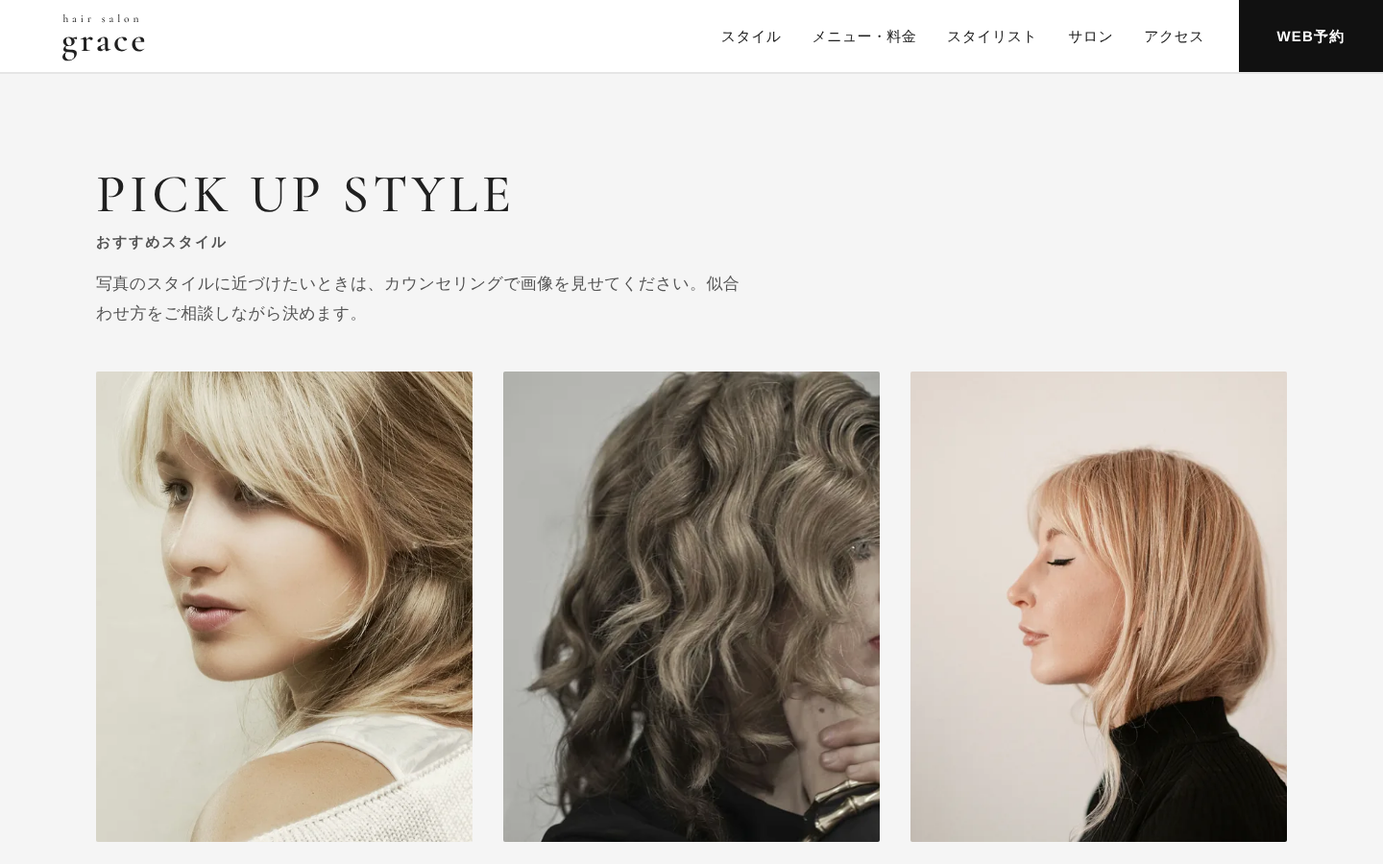
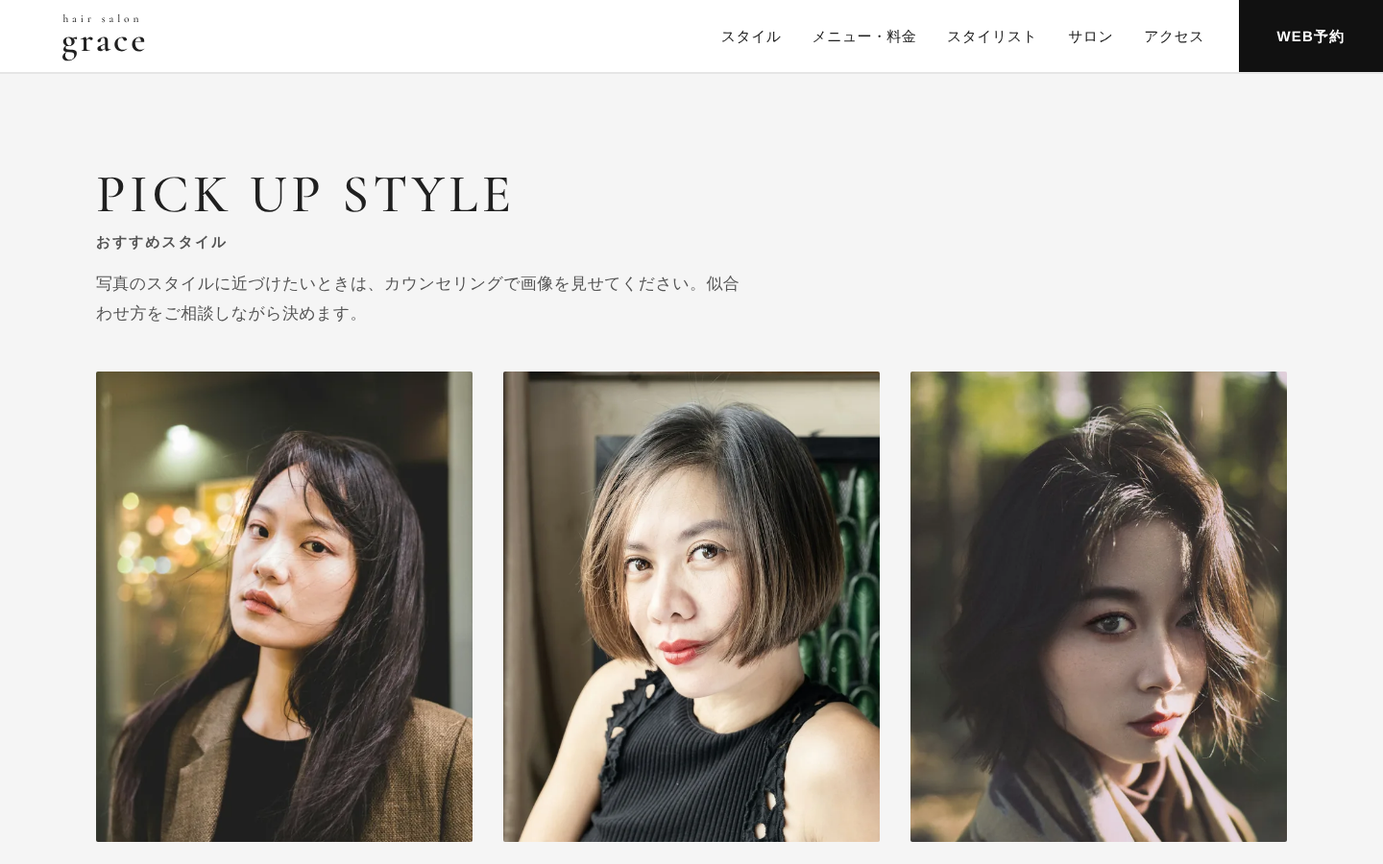
モデル写真を東アジア系モデルに差し替え、クレジット・OGP画像を更新
- ヒーロー・HAIR CATALOG・PICK UP STYLE・スタイル一覧を東アジア系モデルの Unsplash 写真（v4）に差し替え
- 使わなくなった欧米系モデルの写真（v3・v2の一部）を削除
- CREDITS.md に v4 の出典・使用箇所・日本との関連の確認結果と、検討して使わなかった国内素材サイトの理由を記載
- OGP画像と販促用スクリーンショットを作り直し

Claude-Session: https://claude.ai/code/session_01U6BrpBVGjCZbtm2Y6rXKjn

diff --git a/index.html b/index.html
@@ -6,8 +6,8 @@
     <meta name="description" content="美容室ホームページの制作見本です（架空店舗 hair salon grace）。モデル写真とヘアカタログで髪型・髪色の魅力を伝え、料金シミュレーター、スタイリスト指名からの予約、店側の予約管理画面まで体験できます。" />
     <meta property="og:title" content="【制作見本】hair salon grace｜美容室ホームページの見本" />
     <meta property="og:description" content="モデル写真とヘアカタログが主役の、白を基調にした美容室ホームページの制作見本（架空店舗）。料金シミュレーター・指名予約・予約管理まで体験できます。" />
-    <link rel="preload" as="image" href="/images/v3/hero-curly-gray.webp" imagesrcset="/images/v3/hero-curly-gray-sm.webp 800w, /images/v3/hero-curly-gray.webp 2000w" imagesizes="100vw" media="(min-width: 960px)" fetchpriority="high" />
-    <link rel="preload" as="image" href="/images/v3/hero-sp-black-long.webp" imagesrcset="/images/v3/hero-sp-black-long-sm.webp 533w, /images/v3/hero-sp-black-long.webp 1333w" imagesizes="100vw" media="(max-width: 959px)" fetchpriority="high" />
+    <link rel="preload" as="image" href="/images/v4/hero-pc-short-bob-side-part.webp" imagesrcset="/images/v4/hero-pc-short-bob-side-part-sm.webp 800w, /images/v4/hero-pc-short-bob-side-part.webp 2000w" imagesizes="100vw" media="(min-width: 960px)" fetchpriority="high" />
+    <link rel="preload" as="image" href="/images/v4/hero-sp-bob-blunt-fringe.webp" imagesrcset="/images/v4/hero-sp-bob-blunt-fringe-sm.webp 533w, /images/v4/hero-sp-bob-blunt-fringe.webp 1333w" imagesizes="100vw" media="(max-width: 959px)" fetchpriority="high" />
   </head>
   <body class="page-home">
     <a class="skip-link" href="#main">本文へ移動</a>
@@ -18,8 +18,8 @@
       <!-- 1. ヒーロー：画面いっぱいのモデル写真にブランド名を重ねる -->
       <section class="hero" aria-label="hair salon grace" data-hero>
         <picture class="hero-photo">
-          <source media="(max-width: 959px)" srcset="/images/v3/hero-sp-black-long-sm.webp 533w, /images/v3/hero-sp-black-long.webp 1333w" sizes="100vw" width="1333" height="2000" />
-          <img src="/images/v3/hero-curly-gray.webp" srcset="/images/v3/hero-curly-gray-sm.webp 800w, /images/v3/hero-curly-gray.webp 2000w" sizes="100vw" width="2000" height="1335" alt="グレーの背景の前で、ブラウンのカーリーロングヘアを片側に流した女性（スタイルイメージ）" fetchpriority="high" />
+          <source media="(max-width: 959px)" srcset="/images/v4/hero-sp-bob-blunt-fringe-sm.webp 533w, /images/v4/hero-sp-bob-blunt-fringe.webp 1333w" sizes="100vw" width="1333" height="2000" />
+          <img src="/images/v4/hero-pc-short-bob-side-part.webp" srcset="/images/v4/hero-pc-short-bob-side-part-sm.webp 800w, /images/v4/hero-pc-short-bob-side-part.webp 2000w" sizes="100vw" width="2000" height="1138" alt="黒髪のショートボブの女性の横顔寄りのポートレート（スタイルイメージ）" fetchpriority="high" />
         </picture>
         <div class="hero-brand">
           <p class="hero-logo"><span class="sub">hair salon</span> <span class="main">grace</span></p>
@@ -46,32 +46,32 @@
           </div>
           <ul class="catalog-grid">
             <li>
-              <a class="cat-tile" href="#style-list" data-cat-link="color" aria-label="ヘアカラーのスタイル一覧を見る">
-                <img src="/images/v3/cat-color-balayage-waves-sm.webp" srcset="/images/v3/cat-color-balayage-waves-sm.webp 533w, /images/v3/cat-color-balayage-waves.webp 933w" sizes="(min-width: 900px) 36vw, 100vw" width="933" height="1400" alt="ブラウンから明るいベージュへのグラデーションカラーのウェーブロングの女性" style="object-position:50% 35%" loading="lazy" decoding="async" />
-                <span class="cat-label" aria-hidden="true"><span class="en">COLOR</span><span class="ja">ヘアカラー</span></span>
-              </a>
-            </li>
-            <li>
               <a class="cat-tile" href="#style-list" data-cat-link="long" aria-label="ロングのスタイル一覧を見る">
-                <img src="/images/v3/cat-long-straight-brown-sm.webp" srcset="/images/v3/cat-long-straight-brown-sm.webp 600w, /images/v3/cat-long-straight-brown.webp 1050w" sizes="(min-width: 900px) 26vw, 50vw" width="1050" height="1400" alt="明るい背景の前で、ブラウンのストレートロングヘアの女性が正面を向いている" style="object-position:50% 30%" loading="lazy" decoding="async" />
+                <img src="/images/v4/cat-long-dark-waves-sm.webp" srcset="/images/v4/cat-long-dark-waves-sm.webp 528w, /images/v4/cat-long-dark-waves.webp 923w" sizes="(min-width: 900px) 36vw, 100vw" width="923" height="1400" alt="ウェーブのかかった黒髪ロングの女性の横顔" style="object-position:45% 30%" loading="lazy" decoding="async" />
                 <span class="cat-label" aria-hidden="true"><span class="en">LONG</span><span class="ja">ロング</span></span>
               </a>
             </li>
             <li>
+              <a class="cat-tile" href="#style-list" data-cat-link="color" aria-label="ヘアカラーのスタイル一覧を見る">
+                <img src="/images/v4/cat-color-copper-brown-waves-sm.webp" srcset="/images/v4/cat-color-copper-brown-waves-sm.webp 600w, /images/v4/cat-color-copper-brown-waves.webp 1049w" sizes="(min-width: 900px) 26vw, 50vw" width="1049" height="1400" alt="明るいブラウンのウェーブロングの女性" style="object-position:50% 30%" loading="lazy" decoding="async" />
+                <span class="cat-label" aria-hidden="true"><span class="en">COLOR</span><span class="ja">ヘアカラー</span></span>
+              </a>
+            </li>
+            <li>
               <a class="cat-tile" href="#style-list" data-cat-link="bob_medium" aria-label="ボブ・ミディアムのスタイル一覧を見る">
-                <img src="/images/v3/cat-bob-wavy-dark-sm.webp" srcset="/images/v3/cat-bob-wavy-dark-sm.webp 534w, /images/v3/cat-bob-wavy-dark.webp 934w" sizes="(min-width: 900px) 26vw, 50vw" width="934" height="1400" alt="白い背景の前で、ダークブラウンのウェーブボブの女性が横を向いている" style="object-position:45% 25%" loading="lazy" decoding="async" />
+                <img src="/images/v4/pick-bob-sleek-black-sm.webp" srcset="/images/v4/pick-bob-sleek-black-sm.webp 600w, /images/v4/pick-bob-sleek-black.webp 1050w" sizes="(min-width: 900px) 26vw, 50vw" width="1050" height="1400" alt="黒髪のワンレンボブの女性のポートレート" style="object-position:45% 30%" loading="lazy" decoding="async" />
                 <span class="cat-label" aria-hidden="true"><span class="en">BOB・MEDIUM</span><span class="ja">ボブ・ミディアム</span></span>
               </a>
             </li>
             <li>
               <a class="cat-tile" href="#style-list" data-cat-link="short" aria-label="ショートのスタイル一覧を見る">
-                <img src="/images/v3/cat-short-pixie-auburn-sm.webp" srcset="/images/v3/cat-short-pixie-auburn-sm.webp 534w, /images/v3/cat-short-pixie-auburn.webp 935w" sizes="(min-width: 900px) 26vw, 50vw" width="935" height="1400" alt="明るい背景の前で、ブラウンのベリーショートの女性が正面を向いている" style="object-position:50% 22%" loading="lazy" decoding="async" />
+                <img src="/images/v4/cat-short-mens-mash-sm.webp" srcset="/images/v4/cat-short-mens-mash-sm.webp 800w, /images/v4/cat-short-mens-mash.webp 1400w" sizes="(min-width: 900px) 26vw, 50vw" width="1400" height="933" alt="白い背景の前の、マッシュショートの男性のポートレート" style="object-position:62% 35%" loading="lazy" decoding="async" />
                 <span class="cat-label" aria-hidden="true"><span class="en">SHORT</span><span class="ja">ショート</span></span>
               </a>
             </li>
             <li>
               <a class="cat-tile" href="#style-list" data-cat-link="arrange" aria-label="ヘアアレンジのスタイル一覧を見る">
-                <img src="/images/v3/cat-arrange-braid-halfup-sm.webp" srcset="/images/v3/cat-arrange-braid-halfup-sm.webp 600w, /images/v3/cat-arrange-braid-halfup.webp 1050w" sizes="(min-width: 900px) 26vw, 50vw" width="1050" height="1400" alt="後ろ姿で、ベージュ系ストレートロングの髪を後ろでねじり編みにまとめたアレンジ" style="object-position:50% 45%" loading="lazy" decoding="async" />
+                <img src="/images/v4/cat-arrange-kanzashi-updo-sm.webp" srcset="/images/v4/cat-arrange-kanzashi-updo-sm.webp 599w, /images/v4/cat-arrange-kanzashi-updo.webp 1049w" sizes="(min-width: 900px) 26vw, 50vw" width="1049" height="1400" alt="花の髪飾りをつけたまとめ髪の後ろ姿" style="object-position:50% 30%" loading="lazy" decoding="async" />
                 <span class="cat-label" aria-hidden="true"><span class="en">ARRANGE</span><span class="ja">ヘアアレンジ</span></span>
               </a>
             </li>
@@ -102,22 +102,22 @@
           </div>
           <ol class="pickup-list">
             <li>
-              <figure class="photo"><img src="/images/v3/pick-layer-curtain-bangs-sm.webp" srcset="/images/v3/pick-layer-curtain-bangs-sm.webp 560w, /images/v3/pick-layer-curtain-bangs.webp 980w" sizes="(min-width: 900px) 30vw, 92vw" width="980" height="1400" alt="ブロンドの長め前髪と顔まわりのレイヤーが分かる女性の横顔" style="object-position:45% 35%" loading="lazy" decoding="async" /></figure>
+              <figure class="photo"><img src="/images/v4/pick-layer-face-framing-long-sm.webp" srcset="/images/v4/pick-layer-face-framing-long-sm.webp 533w, /images/v4/pick-layer-face-framing-long.webp 933w" sizes="(min-width: 900px) 30vw, 92vw" width="933" height="1400" alt="顔まわりに毛束がかかる黒髪ロングの女性" style="object-position:55% 30%" loading="lazy" decoding="async" /></figure>
               <span class="pickup-no">STYLE 01</span>
               <h3>顔まわりを楽しむレイヤー</h3>
-              <p>長めの前髪を左右に分け、顔まわりに沿って段を入れたスタイル。横顔に髪がふわりと沿い、毛先の動きでやわらかな印象に見えます。</p>
+              <p>長めの前髪から顔まわりに段差をつけたロング。頬にかかる毛束が、正面から見たときの印象をやわらげます。</p>
             </li>
             <li>
-              <figure class="photo"><img src="/images/v3/pick-color-ash-beige-waves-sm.webp" srcset="/images/v3/pick-color-ash-beige-waves-sm.webp 800w, /images/v3/pick-color-ash-beige-waves.webp 1400w" sizes="(min-width: 900px) 30vw, 92vw" width="1400" height="933" alt="グレーの背景の前で、アッシュベージュのウェーブヘアの女性が横を向いている" style="object-position:62% 40%" loading="lazy" decoding="async" /></figure>
+              <figure class="photo"><img src="/images/v4/pick-color-brown-bob-sm.webp" srcset="/images/v4/pick-color-brown-bob-sm.webp 800w, /images/v4/pick-color-brown-bob.webp 1400w" sizes="(min-width: 900px) 30vw, 92vw" width="1400" height="1400" alt="ブラウン系のボブの女性のポートレート" style="object-position:50% 35%" loading="lazy" decoding="async" /></figure>
               <span class="pickup-no">STYLE 02</span>
               <h3>やわらかな色味のカラー</h3>
-              <p>落ち着いたアッシュベージュを、肩下のしっかりとしたウェーブで。巻いた髪の重なりで、色の濃淡が分かります。</p>
+              <p>根元から毛先に向かって明るくなるブラウン系の色味。あご下で揃えたボブなので、色の変化が分かりやすいスタイルです。</p>
             </li>
             <li>
-              <figure class="photo"><img src="/images/v3/pick-bob-blonde-fringe-sm.webp" srcset="/images/v3/pick-bob-blonde-fringe-sm.webp 533w, /images/v3/pick-bob-blonde-fringe.webp 933w" sizes="(min-width: 900px) 30vw, 92vw" width="933" height="1400" alt="明るい背景の前で、前髪ありのブロンドボブの女性の横顔" style="object-position:60% 40%" loading="lazy" decoding="async" /></figure>
+              <figure class="photo"><img src="/images/v4/cat-bob-wavy-medium-sm.webp" srcset="/images/v4/cat-bob-wavy-medium-sm.webp 600w, /images/v4/cat-bob-wavy-medium.webp 1051w" sizes="(min-width: 900px) 30vw, 92vw" width="1051" height="1400" alt="肩上のウェーブボブの女性のポートレート" style="object-position:50% 35%" loading="lazy" decoding="async" /></figure>
               <span class="pickup-no">STYLE 03</span>
-              <h3>シルエットがきれいなボブ</h3>
-              <p>あごから肩上の長さに前髪を合わせたボブ。横から見たときの、すっきりとしたラインが特徴です。</p>
+              <h3>動きのある外ハネボブ</h3>
+              <p>肩上の長さに、ランダムなウェーブと外ハネの毛先。顔まわりの毛流れで、ラフな雰囲気に仕上げたボブです。</p>
             </li>
           </ol>
           <p class="note catalog-note">掲載写真は素材サイトのスタイルイメージです（当店の施術実績ではありません）。</p>
@@ -197,10 +197,9 @@
               </ul>
             </div>
             <div>
-              <ul class="salon-photos" aria-label="店内のイメージ">
+              <ul class="salon-photos salon-photos--2" aria-label="店内のイメージ">
                 <li><figure class="photo"><img src="/images/interior-chair-900.webp" width="600" height="900" alt="木目の鏡台と楕円の鏡の前に置かれたスタイリングチェア" loading="lazy" decoding="async" /></figure><p>セット面 4席</p></li>
                 <li><figure class="photo"><img src="/images/interior-shampoo-900.webp" width="900" height="600" alt="白いシャンプーボウルが並ぶシャンプー台" loading="lazy" decoding="async" /></figure><p>シャンプー台 2台</p></li>
-                <li><figure class="photo"><img src="/images/v2/finish-stylist-sm.webp" srcset="/images/v2/finish-stylist-sm.webp 480w, /images/v2/finish-stylist.webp 800w" sizes="(min-width: 900px) 18vw, 30vw" width="800" height="1200" alt="スタイリストがキャラメルブラウンのウェーブヘアを手で整えている仕上げの様子" loading="lazy" decoding="async" /></figure><p>仕上げまで丁寧に</p></li>
               </ul>
               <p class="note photo-credit-note">※店内写真は素材サイトのイメージ写真です。</p>
             </div>

diff --git a/src/lib/gallery.ts b/src/lib/gallery.ts
@@ -29,14 +29,14 @@ export interface StylePhoto {
 export const catLabel = (s: StylePhoto) => s.cats.map((c) => CATEGORY_LABEL[c].ja).join('・');
 
 export const STYLES: StylePhoto[] = [
-  { file: 'v3/cat-color-balayage-waves.webp', sm: 'v3/cat-color-balayage-waves-sm.webp', w: 933, h: 1400, cats: ['color', 'long'], title: 'ベージュのグラデーションカラー', alt: 'ブラウンから明るいベージュへのグラデーションカラーのウェーブロングの女性', pos: '50% 40%' },
-  { file: 'v3/cat-long-straight-brown.webp', sm: 'v3/cat-long-straight-brown-sm.webp', w: 1050, h: 1400, cats: ['long'], title: 'ツヤのあるストレートロング', alt: '明るい背景の前で、ブラウンのストレートロングヘアの女性が正面を向いている', pos: '50% 40%' },
-  { file: 'v3/hero-blonde-waves.webp', sm: 'v3/hero-blonde-waves-sm.webp', w: 2000, h: 1333, cats: ['long', 'color'], title: 'ブロンドのウェーブロング', alt: '明るいグレーの背景の前で、ブロンドのウェーブロングヘアの女性が正面を向いている', pos: '50% 40%' },
-  { file: 'v3/cat-bob-wavy-dark.webp', sm: 'v3/cat-bob-wavy-dark-sm.webp', w: 934, h: 1400, cats: ['bob_medium'], title: 'ウェーブボブ', alt: '白い背景の前で、ダークブラウンのウェーブボブの女性が横を向いている', pos: '45% 25%' },
+  { file: 'v4/cat-long-dark-waves.webp', sm: 'v4/cat-long-dark-waves-sm.webp', w: 923, h: 1400, cats: ['long'], title: 'ゆるウェーブのロング', alt: 'ウェーブのかかった黒髪ロングの女性の横顔', pos: '45% 35%' },
+  { file: 'v4/extra-long-soft-curls.webp', sm: 'v4/extra-long-soft-curls-sm.webp', w: 933, h: 1400, cats: ['long'], title: 'カールのロング', alt: 'カールのかかった黒髪ロングの女性', pos: '50% 40%' },
+  { file: 'v4/cat-color-copper-brown-waves.webp', sm: 'v4/cat-color-copper-brown-waves-sm.webp', w: 1049, h: 1400, cats: ['color', 'long'], title: '明るいブラウンのロングウェーブ', alt: '明るいブラウンのウェーブロングの女性', pos: '50% 35%' },
+  { file: 'v4/pick-bob-sleek-black.webp', sm: 'v4/pick-bob-sleek-black-sm.webp', w: 1050, h: 1400, cats: ['bob_medium'], title: 'センターパートのワンレンボブ', alt: '黒髪のワンレンボブの女性のポートレート', pos: '45% 30%' },
   { file: 'v2/bob-black-round.webp', sm: 'v2/bob-black-round-sm.webp', w: 889, h: 1200, cats: ['bob_medium'], title: '丸みのある黒髪ボブ', alt: '肩上の長さで毛先を内側に丸めた、黒髪のボブの横顔', pos: 'center' },
-  { file: 'v2/bob-inner-color.webp', sm: 'v2/bob-inner-color-sm.webp', w: 900, h: 1200, cats: ['bob_medium', 'color'], title: 'ブラウンボブ×インナーカラー', alt: 'ブラウンのボブの内側に明るいブロンドを入れたインナーカラー（後ろ姿）', pos: 'center' },
-  { file: 'v3/cat-short-pixie-auburn.webp', sm: 'v3/cat-short-pixie-auburn-sm.webp', w: 935, h: 1400, cats: ['short'], title: 'ベリーショート', alt: '明るい背景の前で、ブラウンのベリーショートの女性が正面を向いている', pos: '50% 30%' },
-  { file: 'v2/curls-short.webp', sm: 'v2/curls-short-sm.webp', w: 900, h: 1200, cats: ['short'], title: 'ふんわりカールのショート', alt: '後ろから見た、細かなカールが立体的に出たショートヘア', pos: 'center' },
-  { file: 'v3/cat-arrange-braid-halfup.webp', sm: 'v3/cat-arrange-braid-halfup-sm.webp', w: 1050, h: 1400, cats: ['arrange'], title: 'ハーフアップ編みおろし', alt: '後ろ姿で、ベージュ系ストレートロングの髪を後ろでねじり編みにまとめたアレンジ', pos: '50% 40%' },
-  { file: 'v2/updo-braid-blonde.webp', sm: 'v2/updo-braid-blonde-sm.webp', w: 900, h: 1200, cats: ['arrange'], title: '編み込みのルーズアップ', alt: '編み込みを入れてゆるくまとめ、小花とパールのピンを飾ったアップスタイル', pos: 'center' },
+  { file: 'v4/extra-medium-brown-waves.webp', sm: 'v4/extra-medium-brown-waves-sm.webp', w: 933, h: 1400, cats: ['bob_medium', 'color'], title: 'ブラウンのウェーブミディアム', alt: 'ブラウンのウェーブヘアの女性がうつむいているポートレート', pos: '50% 30%' },
+  { file: 'v4/hero-pc-short-bob-side-part.webp', sm: 'v4/hero-pc-short-bob-side-part-sm.webp', w: 2000, h: 1138, cats: ['short', 'bob_medium'], title: 'サイドパートのショートボブ', alt: '黒髪のショートボブの女性の横顔寄りのポートレート', pos: '42% 40%' },
+  { file: 'v4/cat-short-mens-mash.webp', sm: 'v4/cat-short-mens-mash-sm.webp', w: 1400, h: 933, cats: ['short'], title: 'メンズ マッシュショート', alt: '白い背景の前の、マッシュショートの男性のポートレート', pos: '62% 35%' },
+  { file: 'v4/extra-short-mens-center-part.webp', sm: 'v4/extra-short-mens-center-part-sm.webp', w: 1045, h: 1400, cats: ['short'], title: 'メンズ センターパートショート', alt: '白い背景の前に立つ、センターパートの短髪の男性', pos: '50% 15%' },
+  { file: 'v4/cat-arrange-kanzashi-updo.webp', sm: 'v4/cat-arrange-kanzashi-updo-sm.webp', w: 1049, h: 1400, cats: ['arrange'], title: '髪飾りをあしらったまとめ髪', alt: '花の髪飾りをつけたまとめ髪の後ろ姿', pos: '50% 35%' },
 ];

diff --git a/src/styles/home.css b/src/styles/home.css
@@ -94,30 +94,29 @@
 }
 .hero-photo img {
   object-fit: cover;
-  object-position: 50% 45%; /* スマホ：顔の上の壁にロゴ、毛先まで残す */
+  object-position: 50% 70%; /* スマホ：頭の上は少し削り、毛先と肩の下の余白を残す */
 }
 @media (min-width: 960px) {
   .hero-photo img {
-    object-position: 50% 28%;
+    object-position: 50% 35%;
   }
 }
-/* 文字の背後だけをごく薄く暗くする（写真全体は暗くしない） */
 .hero-photo::after {
   content: '';
   position: absolute;
   inset: 0;
   pointer-events: none;
 }
+/* 写真の背景が明るいクリーム色のため、ロゴ・コピーは黒文字。写真は暗くしない */
 .hero-brand {
   position: absolute;
   z-index: 1;
-  left: var(--gutter);
-  right: var(--gutter);
+  color: var(--text);
 }
 .hero-brand .sub {
   display: block;
   font-family: var(--font-latin);
-  font-size: clamp(0.95rem, 0.8rem + 0.5vw, 1.35rem);
+  font-size: clamp(0.85rem, 0.75rem + 0.45vw, 1.25rem);
   letter-spacing: 0.42em;
   margin: 0 0 0.1rem 0.2em;
 }
@@ -129,55 +128,56 @@
   letter-spacing: 0.04em;
 }
 .hero-brand .copy {
-  margin: 1.5rem 0 0 0.2em;
-  font-size: clamp(1rem, 0.9rem + 0.4vw, 1.25rem);
+  margin: 1.1rem 0 0 0.2em;
+  font-size: clamp(0.95rem, 0.9rem + 0.3vw, 1.2rem);
   font-weight: 700;
   letter-spacing: 0.16em;
 }
-/* スマホ：白い壁の上部（顔より上）に黒文字で配置。写真は暗くしない */
+.page-home .site-header.is-overlay {
+  color: var(--text);
+}
+.is-overlay .logo,
+.is-overlay .global-nav > ul a {
+  text-shadow: none;
+}
+/* スマホ：写真の上には顔・手・毛先にかからない余白がないため、ロゴとコピーは写真のすぐ下の白い帯に置く
+   （スクロール前に写真とブランド名の両方が見える） */
 @media (max-width: 959px) {
-  .hero-photo::after {
-    display: none;
+  .page-home main > .hero {
+    height: auto;
+    background: #fff;
+  }
+  .hero-photo {
+    position: relative;
+    display: block;
+    height: clamp(360px, 62svh, 600px);
+    overflow: hidden;
+  }
+  .hero-photo img {
+    object-position: 50% 38%;
   }
   .hero-brand {
-    top: calc(var(--header-h) + 2svh);
-    color: var(--text);
+    position: static;
+    padding: 0.9rem var(--gutter) 1.1rem;
   }
   .hero-brand .sub {
-    font-size: 0.85rem;
+    font-size: 0.8rem;
   }
-  /* 画面の高さが低い端末でも、ロゴが顔にかからない大きさにする */
   .hero-brand .main {
-    font-size: min(24vw, 11svh, 7rem);
+    font-size: min(17vw, 4.5rem);
   }
   .hero-brand .copy {
-    margin-top: 0.9rem;
-    font-size: 0.95rem;
-  }
-  .page-home .site-header.is-overlay {
-    color: var(--text);
-  }
-
-  .is-overlay .logo,
-  .is-overlay .global-nav > ul a {
-    text-shadow: none;
+    margin-top: 0.5rem;
   }
 }
-/* PC：グレー背景の左下（髪の輪郭より左）に白文字。文字の背後だけ左下をわずかに暗くする */
+/* PC：左の壁の、ボブの毛先より下の位置に配置（髪の輪郭・顔にかからない） */
 @media (min-width: 960px) {
-  .hero-photo::after {
-    background: radial-gradient(ellipse 45% 55% at 0% 100%, rgba(0, 0, 0, 0.28), rgba(0, 0, 0, 0) 70%),
-      linear-gradient(to bottom, rgba(0, 0, 0, 0.22), rgba(0, 0, 0, 0) 18%);
-  }
   .hero-brand {
-    left: clamp(2rem, 4.5vw, 5rem);
-    right: auto;
-    bottom: 11%;
-    color: #fff;
-    text-shadow: 0 2px 18px rgba(0, 0, 0, 0.25);
+    left: clamp(2rem, 3.5vw, 4rem);
+    bottom: 5%;
   }
   .hero-brand .main {
-    font-size: clamp(6rem, 8.4vw, 8.5rem);
+    font-size: clamp(5rem, 6.6vw, 7rem);
   }
 }
 
@@ -845,6 +845,9 @@
   display: grid;
   grid-template-columns: repeat(3, minmax(0, 1fr));
   gap: 0.5rem;
+}
+.salon-photos--2 {
+  grid-template-columns: repeat(2, minmax(0, 1fr));
 }
 .salon-photos .photo {
   aspect-ratio: 3 / 4;

diff --git a/CREDITS.md b/CREDITS.md
@@ -11,35 +11,46 @@
   - Unsplash+（有料）ではないこと／AI生成の表示がないこと
   - 髪型の輪郭・毛先・髪色が分かり、髪にピントが合っていること
   - モデルの正面・斜め・横顔も使用（前髪・顔まわり・毛先・髪色が分かる構図）。モデルを架空スタッフとして紹介しない
-  - 実在店舗の看板・店名・ロゴが写っていないこと（`interior-chair-900.webp` は鏡台上の販促物2か所をぼかし処理。`hero-waves-caramel` などは写り込んだ商品ボトル・人物を切り抜き）
-- 加工：WebP 変換・リサイズ・トリミングのみ（髪色の加工はしていない）。`v3/*.webp` は長辺1400〜2000px、`v3/*-sm.webp` は長辺800px、`v2/*-sm.webp` は長辺720px（スマホ・一覧用）
-- 掲載写真はスタイルのイメージで、当店（架空）の施術実績・スタッフの作品ではありません。ぱくたそ・Pexels の素材は使用していません
+  - 実在店舗の看板・店名・ロゴが写っていないこと（`interior-chair-900.webp` は鏡台上の販促物2か所をぼかし処理）
+- 加工：WebP 変換・リサイズ・トリミングのみ（髪色の加工はしていない）。`v4/*.webp` は長辺1400〜2000px、`v4/*-sm.webp` は長辺800px、`v2/*-sm.webp` は長辺720px（スマホ・一覧用）。`public/og.jpg` は `v4/hero-pc-short-bob-side-part` を切り抜き、欧文ロゴと「髪から、私らしく。」を重ねたもの
+- 掲載写真はスタイルのイメージで、当店（架空）の施術実績・スタッフの作品ではありません
+- **日本人モデルについて（2026-10-22）**：依頼により、外国人モデルの写真を東アジア系のモデル写真に差し替えました。Unsplash で撮影地・タグなどから日本で撮影された／日本人と確認できたのは下表の「日本との関連」欄に記載がある3点（メンズ2点・まとめ髪）のみで、女性モデルのほとんどは**国籍・撮影地の記載がなく、外見から選んだもの**です。「日本人モデル」とは表記していません
 
-| ファイル | 内容 | 撮影者 | 元ページ | 使用箇所 |
-|---|---|---|---|---|
-| `v3/hero-curly-gray.webp`（＋`-sm`） | グレーの背景の前で、ブラウンのカーリーロングヘアを片側に流した女性 | Zoran Borojevic（投稿者。ページ内に「Ines」の表記あり） | <https://unsplash.com/photos/woman-in-white-long-sleeve-shirt-s55Di5cdiSM> | ヒーロー（PC）・OGP画像 |
-| `v3/hero-sp-black-long.webp`（＋`-sm`） | 白い壁の前で、黒髪のロングヘアの女性が目を閉じて顔を上げている | Valeria Lendel | <https://unsplash.com/photos/a-woman-with-long-black-hair-standing-in-front-of-a-wall-0b_7r_dNjFs> | ヒーロー（スマホ） |
-| `v3/cat-color-balayage-waves.webp`（＋`-sm`） | ブラウンから明るいベージュへのグラデーションカラーのウェーブロングの女性 | OmAr Taha | <https://unsplash.com/photos/a-woman-with-long-hair-wearing-a-coat--v4dPq1jZJA> | HAIR CATALOG（大・COLOR）・スタイル一覧 |
-| `v3/cat-long-straight-brown.webp`（＋`-sm`） | 明るい背景の前で、ブラウンのストレートロングヘアの女性が正面を向いている | Zoran Borojevic | <https://unsplash.com/photos/woman-in-black-leather-jacket-4BG2yKyCaWg> | HAIR CATALOG（LONG）・スタイル一覧 |
-| `v3/cat-bob-wavy-dark.webp`（＋`-sm`） | 白い背景の前で、ダークブラウンのウェーブボブの女性が横を向いている | Alex Larrondo | <https://unsplash.com/photos/woman-with-dark-wavy-hair-wearing-a-black-turtleneck-Hoc8u4HJO7w> | HAIR CATALOG（BOB・MEDIUM）・スタイル一覧 |
-| `v3/cat-short-pixie-auburn.webp`（＋`-sm`） | 明るい背景の前で、ブラウンのベリーショートの女性が正面を向いている | Alistair Cowin | <https://unsplash.com/photos/woman-with-brown-hair-and-red-lipstick-2I-fXHM7OCQ> | HAIR CATALOG（SHORT）・スタイル一覧 |
-| `v3/cat-arrange-braid-halfup.webp`（＋`-sm`） | 後ろ姿で、ベージュ系ストレートロングの髪を後ろでねじり編みにまとめたアレンジ | farida ganina | <https://unsplash.com/photos/woman-in-black-long-sleeve-shirt-OVIF-r1IVcc> | HAIR CATALOG（ARRANGE）・スタイル一覧 |
-| `v3/pick-layer-curtain-bangs.webp`（＋`-sm`） | ブロンドの長め前髪と顔まわりのレイヤーが分かる女性の横顔 | Alexander Krivitskiy | <https://unsplash.com/photos/woman-in-white-tank-top-S4FiGYM9oOc> | PICK UP STYLE 01 |
-| `v3/pick-color-ash-beige-waves.webp`（＋`-sm`） | グレーの背景の前で、アッシュベージュのウェーブヘアの女性が横を向いている | James Hughes | <https://unsplash.com/photos/woman-in-black-shirt-with-blonde-hair-RczKPBSiu1s> | PICK UP STYLE 02 |
-| `v3/pick-bob-blonde-fringe.webp`（＋`-sm`） | 明るい背景の前で、前髪ありのブロンドボブの女性の横顔 | Mathilde Langevin | <https://unsplash.com/photos/woman-in-black-turtleneck-shirt-yuahvgxIXjE> | PICK UP STYLE 03 |
-| `v3/hero-blonde-waves.webp`（＋`-sm`） | 明るいグレーの背景の前で、ブロンドのウェーブロングヘアの女性が正面を向いている | Giorgio Trovato | <https://unsplash.com/photos/a-woman-with-long-blonde-hair-wearing-a-black-shirt-VzusBjHlKM8> | スタイル一覧 |
-| `v2/bob-black-round.webp`（＋`-sm`） | 生成り色の背景で、うつむき加減の横顔と黒髪の丸みのあるボブ。毛先はゆるく内巻き | Suhyeon Choi | <https://unsplash.com/photos/woman-looking-down-VfOw1B-y_rQ> | スタイル一覧 |
-| `v2/bob-inner-color.webp`（＋`-sm`） | 白背景で斜め後ろから見た、毛先に明るいブロンドのインナーカラーを入れたブラウンのボブ | Dwi Agus Prasetiyo | <https://unsplash.com/photos/a-person-looking-at-the-camera-EMeWJb_RuoQ> | スタイル一覧 |
-| `v2/curls-short.webp`（＋`-sm`） | 淡いブルーグレー背景で後ろから見た、細かなカールが立体的なショートヘア | Alexander Grey | <https://unsplash.com/photos/woman-wearing-white-strapless-top-_e_GZVswkHQ> | スタイル一覧 |
-| `v2/updo-braid-blonde.webp`（＋`-sm`） | かすみ草とパールの髪飾りを添えた、編み込み入りのブロンドのルーズなアップスタイル | Lydia Turner | <https://unsplash.com/photos/woman-with-brown-hair-tied-N1VKaGNwRYc> | スタイル一覧 |
-| `v2/finish-stylist.webp`（＋`-sm`） | 白いサロン店内で、スタイリストの手がキャラメルブラウンのウェーブヘアを整えている後ろ姿 | Ramón Benitez | <https://unsplash.com/photos/wkWTdIwJemY> | SALON（仕上げ） |
-| `interior-chair-900.webp` | 木目の鏡台と楕円ミラー前のスタイリングチェア（縦構図、人物なし） | Tile Merchant Ireland | <https://unsplash.com/photos/a-hair-salon-with-chairs-and-mirrors-DUvovc88OfE> | SALON（店内） |
-| `interior-shampoo-900.webp` | 白いシャンプーボウルと黒いシャンプー台が並ぶモノクロ写真（人物なし） | Giorgio Trovato | <https://unsplash.com/photos/a-row-of-black-and-white-chairs-next-to-a-sink-k5xtu6DApUk> | SALON（店内） |
+| ファイル | 内容 | 撮影者 | 元ページ | 日本との関連 | 使用箇所 |
+|---|---|---|---|---|---|
+| `v4/hero-pc-short-bob-side-part.webp`（＋`-sm`） | 深めのサイドパートから耳にかけたショートボブ。黒髪のツヤと、あご下で内側に収まる丸みのあるシルエットが分かります。 | Jk Imperial | <https://unsplash.com/photos/a-woman-with-black-hair-is-looking-at-the-camera--opOVG_Z4jA> | 記載なし（外見のみで判断） | ヒーロー（PC）・OGP画像・スタイル一覧 |
+| `v4/hero-sp-bob-blunt-fringe.webp`（＋`-sm`） | 目にかかる長さの前髪と、あごより下で揃えた切りっぱなしのボブ。黒髪の直線的な毛先が分かります。 | Zhanna Rinatova | <https://unsplash.com/photos/a-woman-with-a-short-hair-and-a-white-tank-top-KvPz2Jv_SZ0> | 記載なし（外見のみで判断） | ヒーロー（スマホ） |
+| `v4/cat-long-dark-waves.webp`（＋`-sm`） | 腰に届く長さの黒髪に、全体にゆるいウェーブ。横顔から毛先までの長さと動きが分かります。 | Silas Hao | <https://unsplash.com/photos/woman-with-red-lipstick-and-black-hair-TWEoISk5WoI> | 記載なし（外見のみで判断） | HAIR CATALOG（大・LONG）・スタイル一覧 |
+| `v4/cat-bob-wavy-medium.webp`（＋`-sm`） | 肩上の長さのボブに、ランダムなウェーブと外ハネの毛先。顔まわりの毛流れが分かります。 | ling hua | <https://unsplash.com/photos/a-woman-with-a-scarf-around-her-neck-CWxahMbXlfs> | 記載なし（外見のみで判断） | PICK UP STYLE 03 |
+| `v4/cat-short-mens-mash.webp`（＋`-sm`） | 眉にかかる前髪と、毛先に動きのある丸みのあるマッシュショート。白背景でシルエットが分かります。 | Takashi Miyazaki | <https://unsplash.com/photos/man-in-white-crew-neck-shirt-iCvqnJgMchs> | タグ japanese 等 | HAIR CATALOG（SHORT）・スタイル一覧 |
+| `v4/cat-arrange-kanzashi-updo.webp`（＋`-sm`） | 後頭部の低い位置にまとめたアップスタイルに、花の髪飾りを添えたもの。後ろ姿でまとめ方と飾りの配置が分かります。 | Genri Kura | <https://unsplash.com/photos/a-woman-with-a-flower-in-her-hair-3ow9GhfwysU> | 撮影地 Japan・タグ japan | HAIR CATALOG（ARRANGE）・スタイル一覧 |
+| `v4/cat-color-copper-brown-waves.webp`（＋`-sm`） | 赤みのある明るいブラウンの髪色に、胸下までのゆるいウェーブ。逆光で毛先まで色味が分かります。 | Tan Duong | <https://unsplash.com/photos/woman-with-long-hair-at-waterfront-0ZOb8d31yNY> | 記載なし（外見のみで判断） | HAIR CATALOG（COLOR）・スタイル一覧 |
+| `v4/pick-layer-face-framing-long.webp`（＋`-sm`） | 長めの前髪から顔まわりに段差をつけたロング。頬にかかる毛束と、胸下までの毛先が分かります。 | Yunming Wang | <https://unsplash.com/photos/a-woman-with-long-black-hair-standing-in-front-of-a-building-G9f4Enb8XVM> | 記載なし（外見のみで判断） | PICK UP STYLE 01 |
+| `v4/pick-color-brown-bob.webp`（＋`-sm`） | 根元から毛先に向かって明るくなるブラウン系の色味のボブ。あご下で揃えた毛先と前下がりの形が分かります。 | Phong Duong | <https://unsplash.com/photos/woman-with-bob-haircut-and-lipstick-x4NP8d2-shs> | 記載なし（外見のみで判断） | PICK UP STYLE 02 |
+| `v4/pick-bob-sleek-black.webp`（＋`-sm`） | センターパートで、あご下に揃えたワンレングスのボブ。毛先の直線とストレートな質感が分かります。 | Ilyas Bolatov | <https://unsplash.com/photos/woman-wearing-black-top-6ZW7hRz7DE0> | 記載なし（外見のみで判断） | HAIR CATALOG（BOB・MEDIUM）・スタイル一覧 |
+| `v4/extra-long-soft-curls.webp`（＋`-sm`） | 胸下まであるロングに、中間から毛先にかけて大きめのカール。毛先の動きが分かります。 | Vivian K | <https://unsplash.com/photos/a-woman-with-long-hair-Hmqj7JOXJvE> | 記載なし（外見のみで判断） | スタイル一覧 |
+| `v4/extra-medium-brown-waves.webp`（＋`-sm`） | 肩につく長さのブラウンの髪に、全体のウェーブ。うつむき加減で毛先の動きが分かります。 | 光术 山影 | <https://unsplash.com/photos/young-woman-with-short-hair-in-a-white-dress-outdoors-uA04tMbRNOk> | 記載なし（外見のみで判断） | スタイル一覧 |
+| `v4/extra-short-mens-center-part.webp`（＋`-sm`） | 眉下の長さの前髪をセンターで分けたメンズショート。白背景で全体の形が分かります。 | 花見 瀬田 (Hanami Seta) | <https://unsplash.com/photos/a-man-standing-in-front-of-a-white-background-_q1F356xF48> | 撮影地 Japan・タグ japan | スタイル一覧 |
+| `v2/bob-black-round.webp`（＋`-sm`） | 生成り色の背景で、うつむき加減の横顔と黒髪の丸みのあるボブ。毛先はゆるく内巻き | Suhyeon Choi | <https://unsplash.com/photos/woman-looking-down-VfOw1B-y_rQ> | 記載なし（外見のみで判断） | スタイル一覧 |
+| `interior-chair-900.webp` | 木目の鏡台と楕円ミラー前のスタイリングチェア（縦構図、人物なし） | Tile Merchant Ireland | <https://unsplash.com/photos/a-hair-salon-with-chairs-and-mirrors-DUvovc88OfE> | ― | SALON（店内） |
+| `interior-shampoo-900.webp` | 白いシャンプーボウルと黒いシャンプー台が並ぶモノクロ写真（人物なし） | Giorgio Trovato | <https://unsplash.com/photos/a-row-of-black-and-white-chairs-next-to-a-sink-k5xtu6DApUk> | ― | SALON（店内） |
+
+### 検討して使わなかった素材（2026-10-22）
+
+「日本人・20代・後ろ姿のヘアカラー仕上がり写真（ホットペッパービューティーのスタイル写真のようなもの）」を国内の無料素材サイトで探しましたが、次の理由で今回は使っていません。
+
+| サイト | 結果 |
+|---|---|
+| ホットペッパービューティー・実在サロンのサイト | 各サロン・撮影者・モデルに権利があり、無断転載になるため使用しない |
+| GIRLY DROP（<https://girlydrop.com/policy>） | 規約で「写真と関連する業種での商用利用（例：美容院がヘアスタイル写真を使う）」を控えるよう求めているため使用しない |
+| ぱくたそ（<https://www.pakutaso.com/userpolicy.html>） | 後ろ姿の写真はあるが、夕日の逆光・浴衣・アレンジ中など「カラーの仕上がり見本」として使える写真が見つからなかった |
+| 写真AC など会員制サイト | ダウンロードに会員ログインが必要なため、作業環境から取得できない |
 
 ### デザイン変更で外した写真
 
 - 2回目のデザインで外したもの：カーテン・植物・タオル・小物の写真、屋外の後ろ姿、髪がぶれた写真、強い色の写真、施術途中の手元
-- 今回（モデル写真主体）で外したもの：前回の後ろ姿中心のスタイル写真（`style-01〜12` の残り、`v2` の一部）。モデルの正面・横顔で前髪や顔まわりまで分かる写真に入れ替えたため
+- 3回目（モデル写真主体）で外したもの：前回の後ろ姿中心のスタイル写真
+- 今回（東アジア系モデルへの差し替え）で外したもの：`v3/*`（欧米系モデル11点）と `v2` の4点（インナーカラーボブ・カールショート・ブロンドのアップ・仕上げ中の後ろ姿）
 
 ## アイコン
 

diff --git a/CLAUDE.md b/CLAUDE.md
@@ -16,7 +16,7 @@
 | 配色 | 白基調。背景 `#FFFFFF`／補助 `#F5F5F5`／文字 `#202020`／補助文字 `#666666`／境界線 `#E5E5E5`／主なボタンは黒の長方形＋白文字。写真の色は加工せず残す。トークンは `src/styles/base.css` の `:root` |
 | 書体 | 日本語は端末標準のゴシック体。セクション見出しは大きな欧文セリフ（Cormorant Garamond）＋小さな日本語（例：HAIR CATALOG／ヘアカタログ） |
 | 形 | 写真は長方形。角丸は小さく（2〜4px）、影は最小限。アーチ型のマスクは使わない |
-| 写真 | **モデル写真が主役**（Unsplash の実写のみ。AI生成・Unsplash+ 不使用）。正面・斜め・横顔も可。髪型・前髪・毛先・髪色が分かるものだけ。モデルを架空スタッフとして紹介しない。カーテン・植物・タオル・小物を主役にしない。出典は `CREDITS.md` |
+| 写真 | **モデル写真が主役**（Unsplash の実写のみ。AI生成・Unsplash+ 不使用）。**モデルは日本人・東アジア系**（2026-10-22 依頼。国籍の記載がない写真は「日本人モデル」と表記しない）。GIRLY DROP は美容院でのヘア写真利用を控えるよう規約にあるため使わない。HPB・実在サロンの写真は使わない。正面・斜め・横顔も可。髪型・前髪・毛先・髪色が分かるものだけ。モデルを架空スタッフとして紹介しない。カーテン・植物・タオル・小物を主役にしない。出典は `CREDITS.md` |
 | ページ順 | ヒーロー → HAIR CATALOG（大1＋小4のカタログ＋カテゴリで絞り込めるスタイル一覧） → PICK UP STYLE → MENU & PRICE → 料金シミュレーター → STYLIST → SALON → 初めての方へ・FAQ → ACCESS → 予約案内・フッター |
 | ヒーロー | 画面いっぱいのモデル写真1枚に「hair salon / grace / 髪から、私らしく。」だけを重ねる。文字は目元・前髪・髪の輪郭を避けて配置し、全面の濃いオーバーレイは使わない。ヘッダーはヒーロー上だけ透明・白文字（高さは一定）。スマホは約70svhでスマホ用の構図。スライドショー・オープニングなし |
 | 演出 | 写真が最初から見えることを優先。オープニング・曇り・葉の影・見出しマスクは廃止。ホバーの軽い拡大とギャラリー絞り込みの FLIP（GSAP Flip を遅延読み込み）のみ |

diff --git a/docs/promo/README.md b/docs/promo/README.md
@@ -17,7 +17,7 @@
 | `12-sp-reserve-nomination.png` | 指名を引き継いだ予約画面（スマホ） |
 | `13-pc-admin.png` / `14-sp-admin.png` | 店側の予約管理（PC：スタッフ別タイムライン／スマホ：一覧） |
 
-※画面内の店舗・スタッフ・予約はすべて架空、写真は素材サイトのスタイルイメージです（モデルはスタッフ本人ではありません）。
+※画面内の店舗・スタッフ・予約はすべて架空、写真は素材サイト（Unsplash）の東アジア系モデルのスタイルイメージです（モデルはスタッフ本人ではありません）。
 
 ## 制作見本の紹介文（246文字）
 
